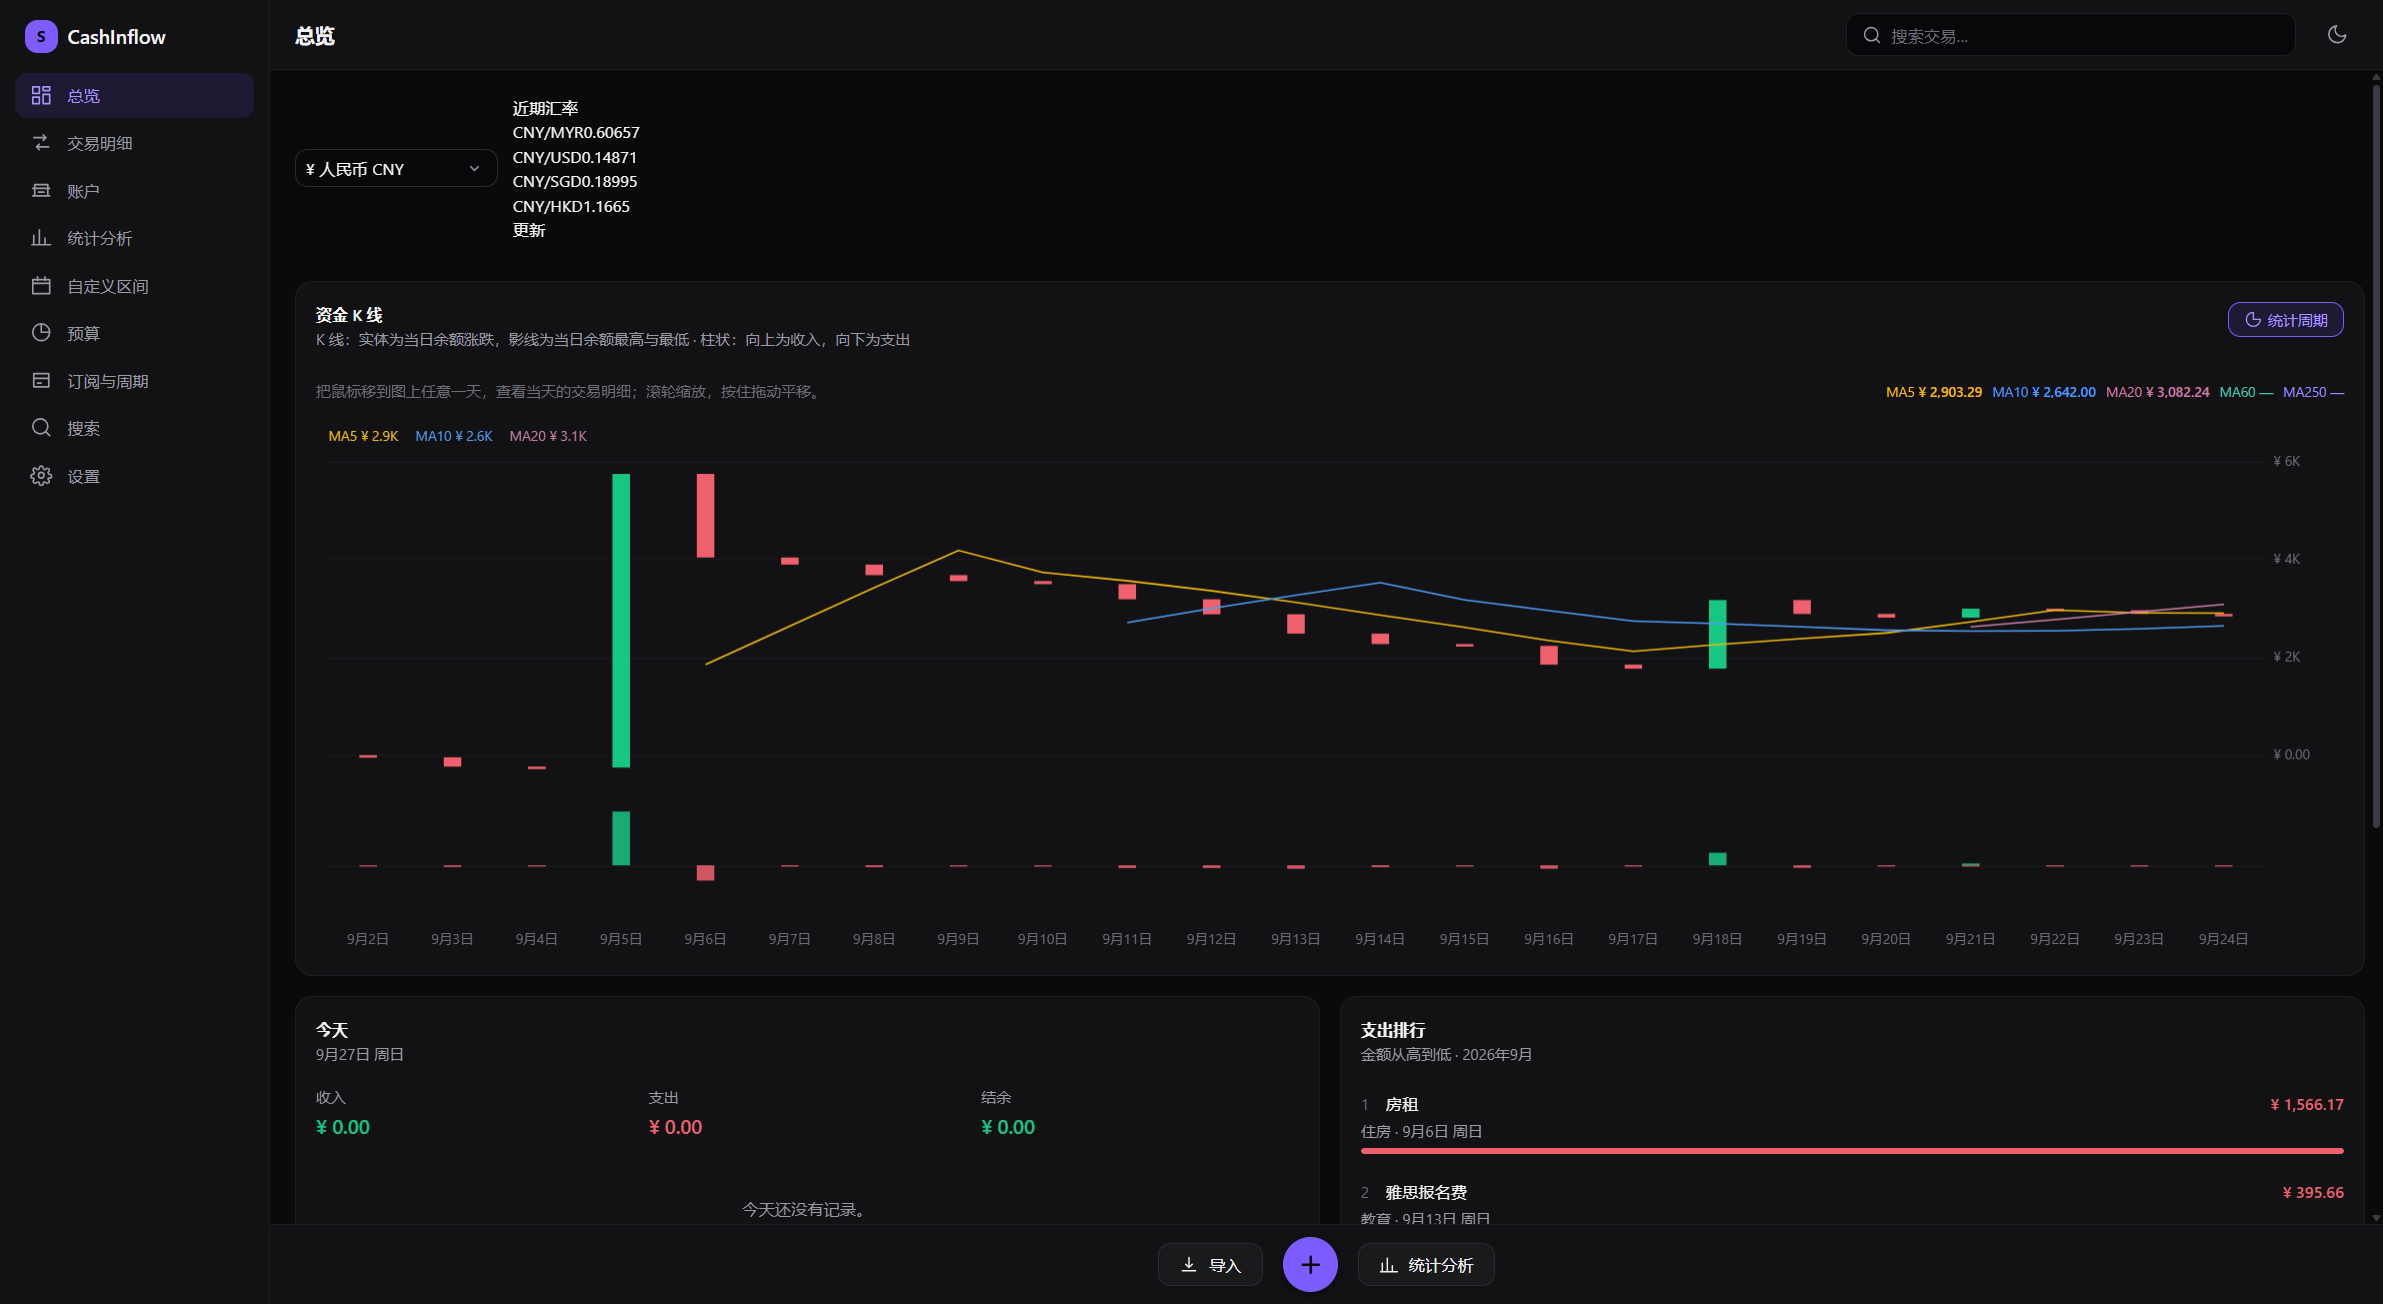
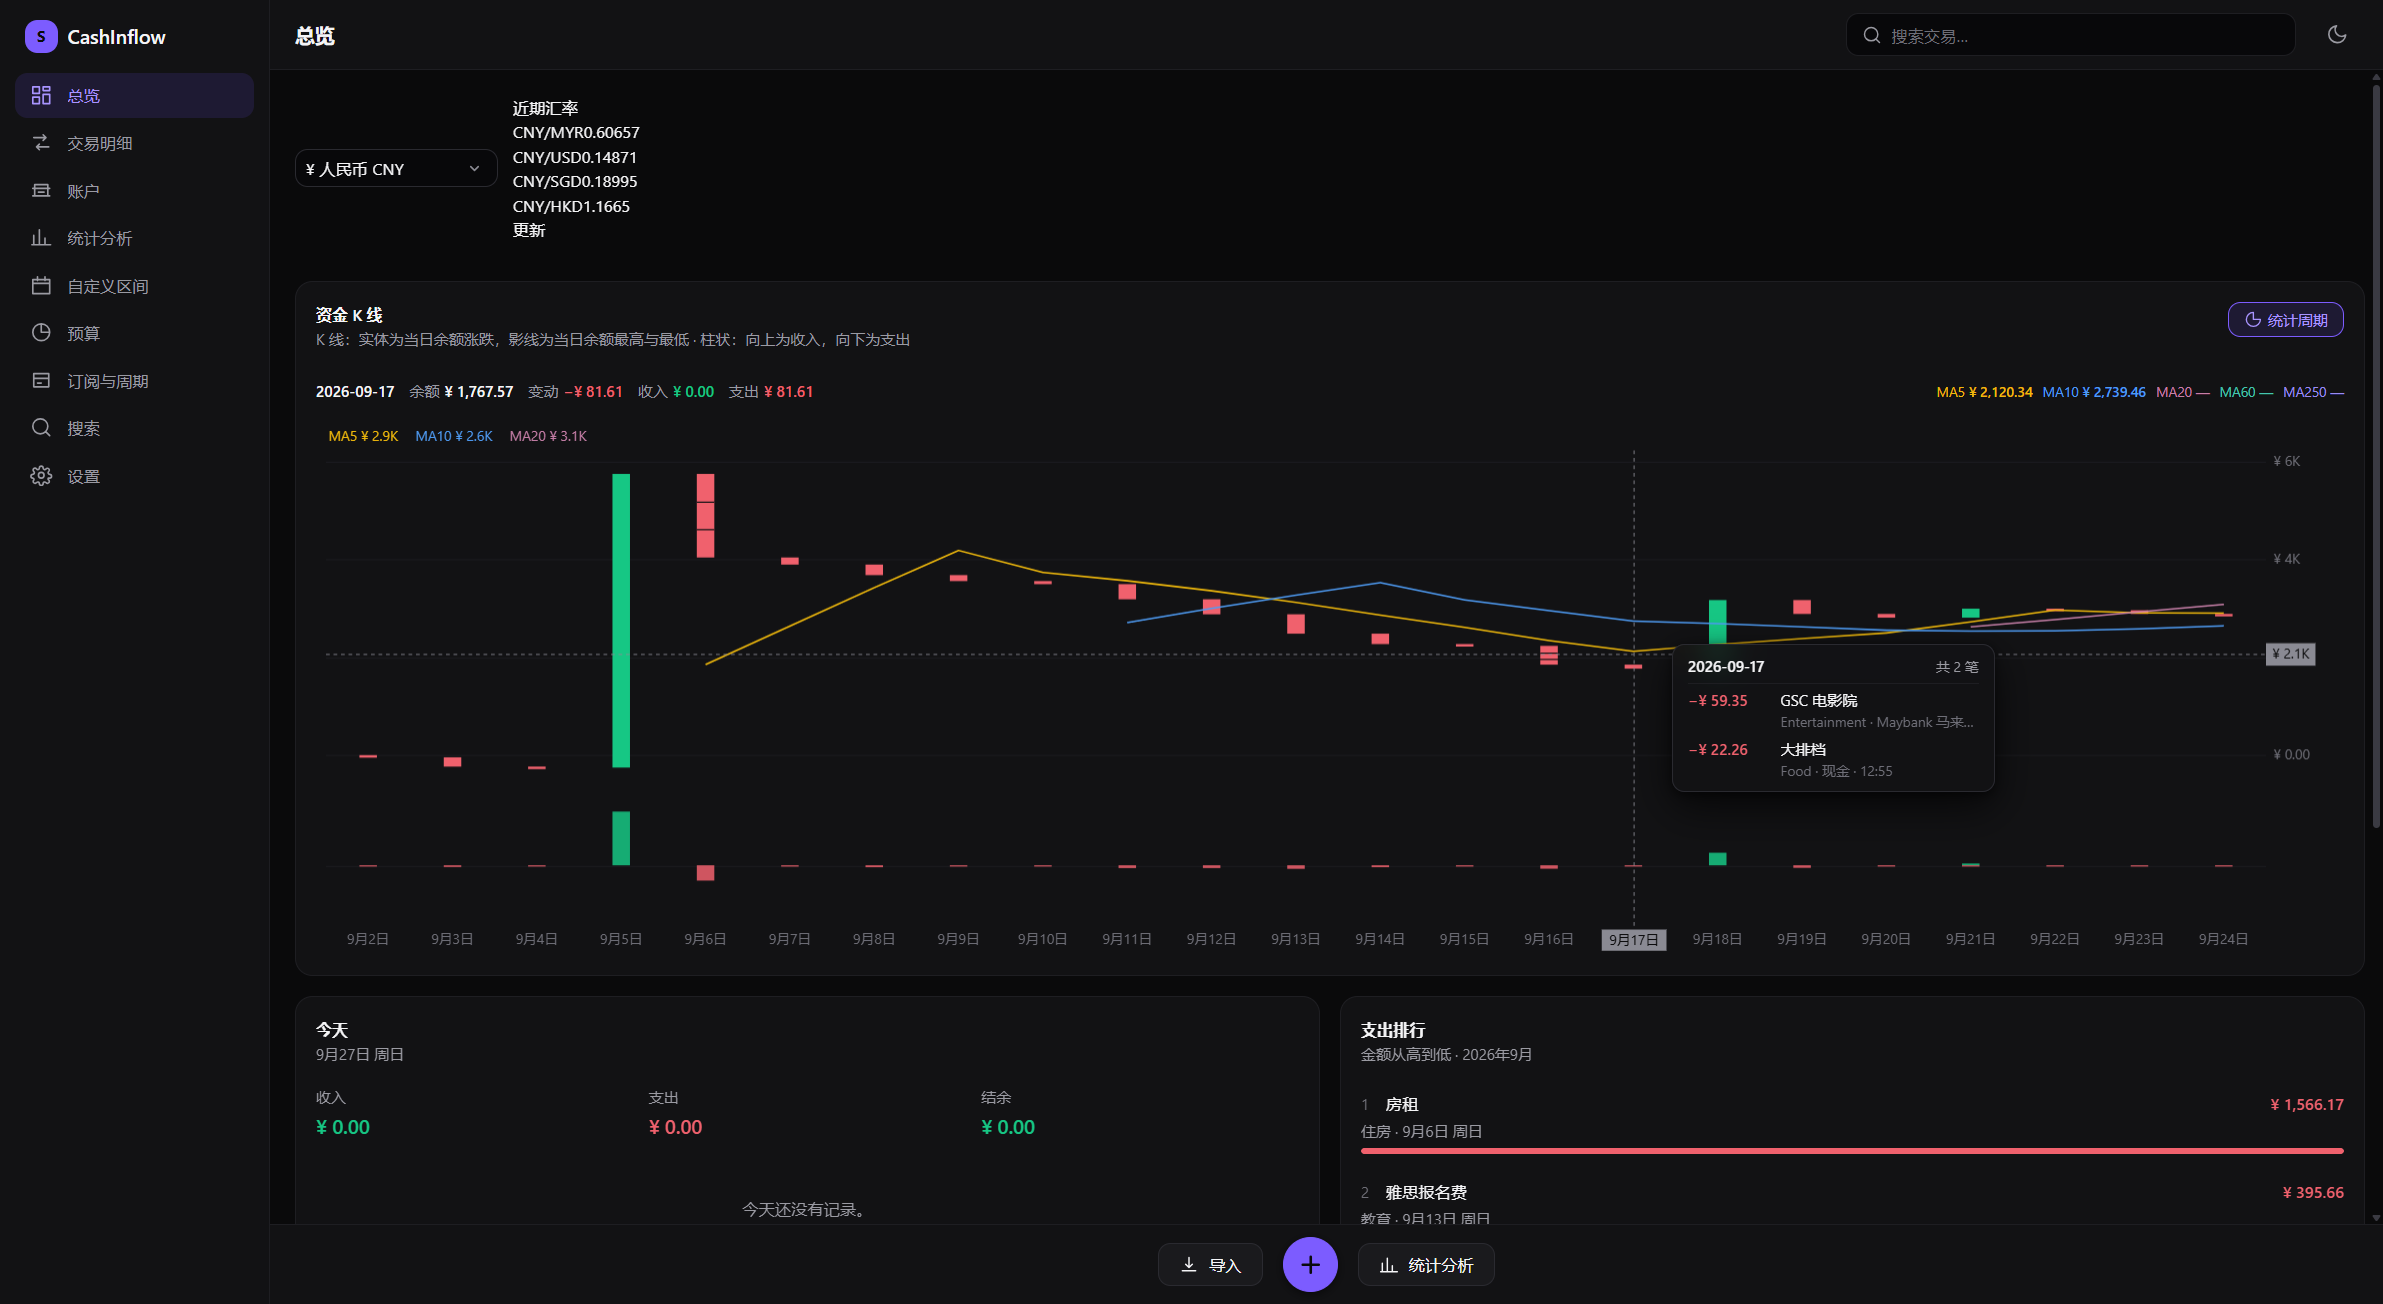
v1.4.1：K 线柱子补上交易分隔刻度
v1.4.0 漏了一项要求：柱子要按笔分隔，而不是只画出当天的净额。

同样是余额变动 ¥200，可能是一笔大额支出，也可能是五笔小额消费 —— 光看实体分不出来。现在实体在竖直方向等分成 transactionCount 段，分隔线数量就是交易笔数。

等分而不是按时间定位：账单流水通常只有日期没有准确时间，按时间定位等于编造数据里没有的测量值；等分只声称它知道的事 —— 有几笔。transactionCount 在重新分桶时会累加，所以放大缩小都成立。

两个边界：实体不足 14px 不画（分隔线比实体还密会糊成条纹布），超过 12 笔只画 12 条（准确的笔数在悬停方框标题里）。分隔线用图表自身背景色，深浅主题都成立。

发小版本而不是替换已发布的 1.4.0 附件：那样已经下载过的人手上的校验和就不对了。

diff --git a/src/renderer/src/components/BalanceFlowChart.tsx b/src/renderer/src/components/BalanceFlowChart.tsx
@@ -213,6 +213,23 @@ function granularityForSpan(days: number): KlineGranularity {
 /* -------------------------------------------------------------------------- */
 
 /**
+ * Cap on the divider ticks drawn inside one candle.
+ *
+ * Beyond a dozen separators they are closer together than they are thick at any
+ * realistic candle size, so they merge into a solid block and communicate "many"
+ * no better than twelve do. The tooltip carries the exact count.
+ */
+const MAX_DIVIDER_TICKS = 12
+
+/**
+ * Minimum candle-body height, in px, at which divider ticks are drawn at all.
+ *
+ * Below this the whole body is about as tall as the separators are thick, so the
+ * candle would render as a striped rectangle instead of a candle with divisions.
+ */
+const MIN_TICK_BODY_HEIGHT = 14
+
+/**
  * Resolve the theme's market colours from the live CSS custom properties.
  *
  * Read at draw time rather than hard-coded, so the light theme's red-up override
@@ -227,6 +244,7 @@ function readMarketColors(element: HTMLElement): {
   grid: string
   axis: string
   crosshair: string
+  background: string
   ma: string[]
 } {
   const style = getComputedStyle(element)
@@ -239,6 +257,10 @@ function readMarketColors(element: HTMLElement): {
     grid: get('--market-grid', '#1A1A1E'),
     axis: get('--market-axis', '#6E6E77'),
     crosshair: get('--market-crosshair', '#8A8A93'),
+    // Used for the divider ticks, which are drawn as gaps in the candle body. The
+    // chart's own surface, so a separator reads in both themes without a second
+    // colour needing to be defined for it.
+    background: get('--bg-surface', '#121214'),
     ma: [
       get('--market-ma-1', '#F0B90B'),
       get('--market-ma-2', '#4E9CF5'),
@@ -605,6 +627,43 @@ export function BalanceFlowChart({
       const bodyHeight = Math.max(2, Math.abs(yClose - yOpen))
       ctx.fillStyle = color
       ctx.fillRect(x - candleWidth / 2, top, candleWidth, bodyHeight)
+
+      /*
+        DIVIDER TICKS — one segment per transaction.
+
+        A day with five small purchases and a day with one large one can move the
+        balance by the same amount, and the candle body alone cannot tell them apart.
+        Splitting the body into `transactionCount` equal segments draws that
+        difference directly on the bar: the tally of separators IS the tally of
+        transactions, so "how busy was that day" is readable without hovering.
+
+        Segments rather than positions along a time axis, because a transaction's
+        exact time within its day is usually absent (bank exports carry a date and
+        often nothing else), and placing ticks at invented times would be a
+        measurement the data does not support. Equal segments claim only what is
+        known: how many.
+
+        Skipped below 4px of body: the separators would be closer together than they
+        are thick and would read as a solid block. Past 12 segments the same happens
+        at any size, so the count is capped and the tooltip carries the exact number.
+      */
+      const ticks = Math.min(bucket.transactionCount, MAX_DIVIDER_TICKS)
+      if (ticks > 1 && bodyHeight >= MIN_TICK_BODY_HEIGHT) {
+        ctx.save()
+        // The separator has to read against the body it cuts, so it is drawn in the
+        // chart's own background rather than in white or black — that keeps it
+        // correct in both themes without a second colour token.
+        ctx.strokeStyle = colors.background
+        ctx.lineWidth = 1
+        ctx.beginPath()
+        for (let t = 1; t < ticks; t += 1) {
+          const segmentY = Math.round(top + (bodyHeight * t) / ticks) + 0.5
+          ctx.moveTo(x - candleWidth / 2, segmentY)
+          ctx.lineTo(x + candleWidth / 2, segmentY)
+        }
+        ctx.stroke()
+        ctx.restore()
+      }
     }
 
     /* --- flow bars: income above the centre, expense below --- */
